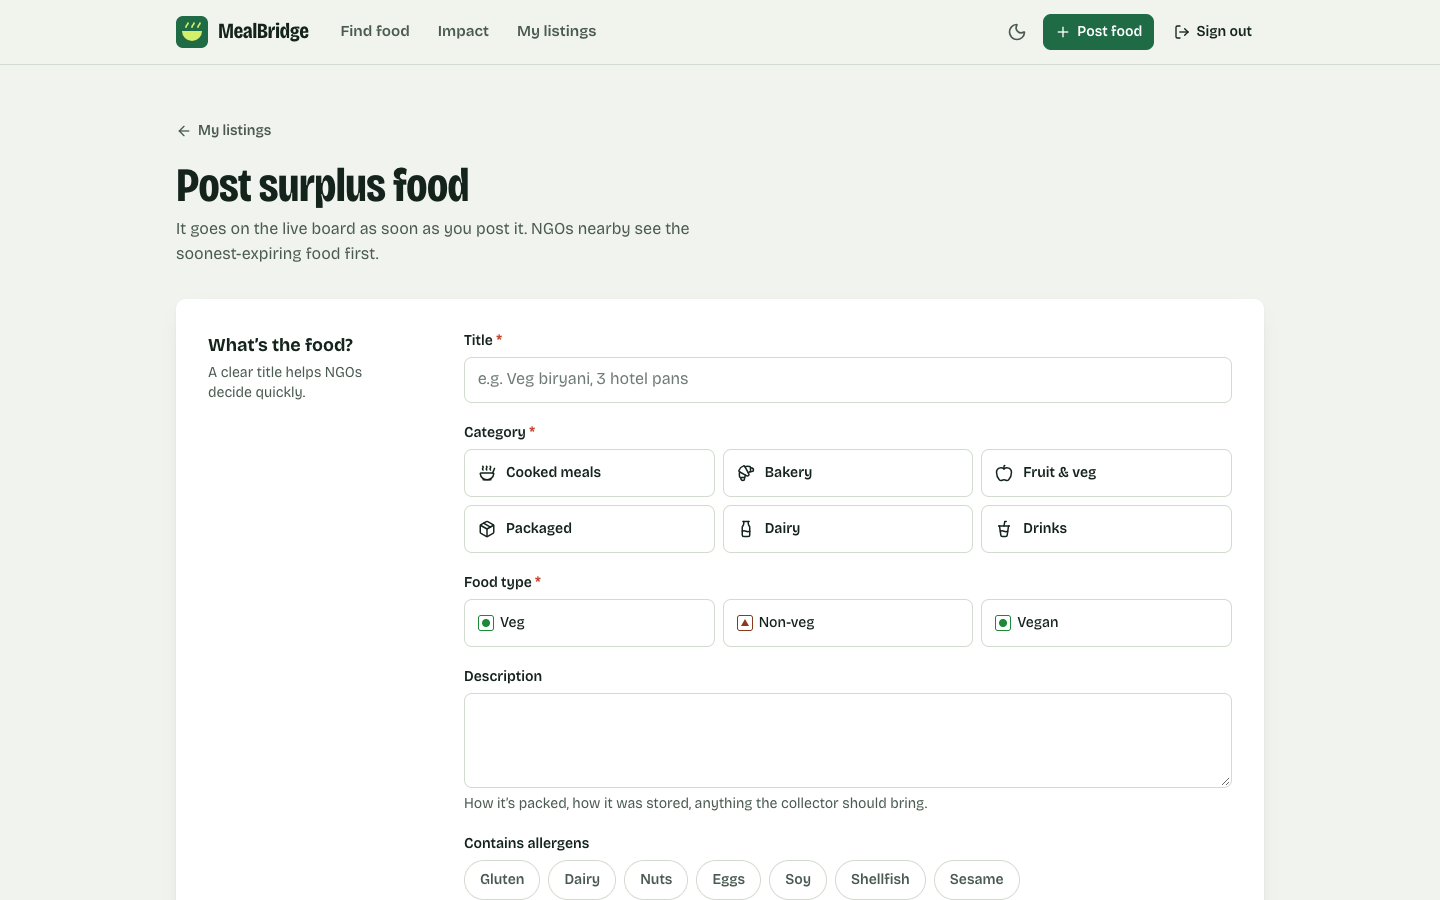
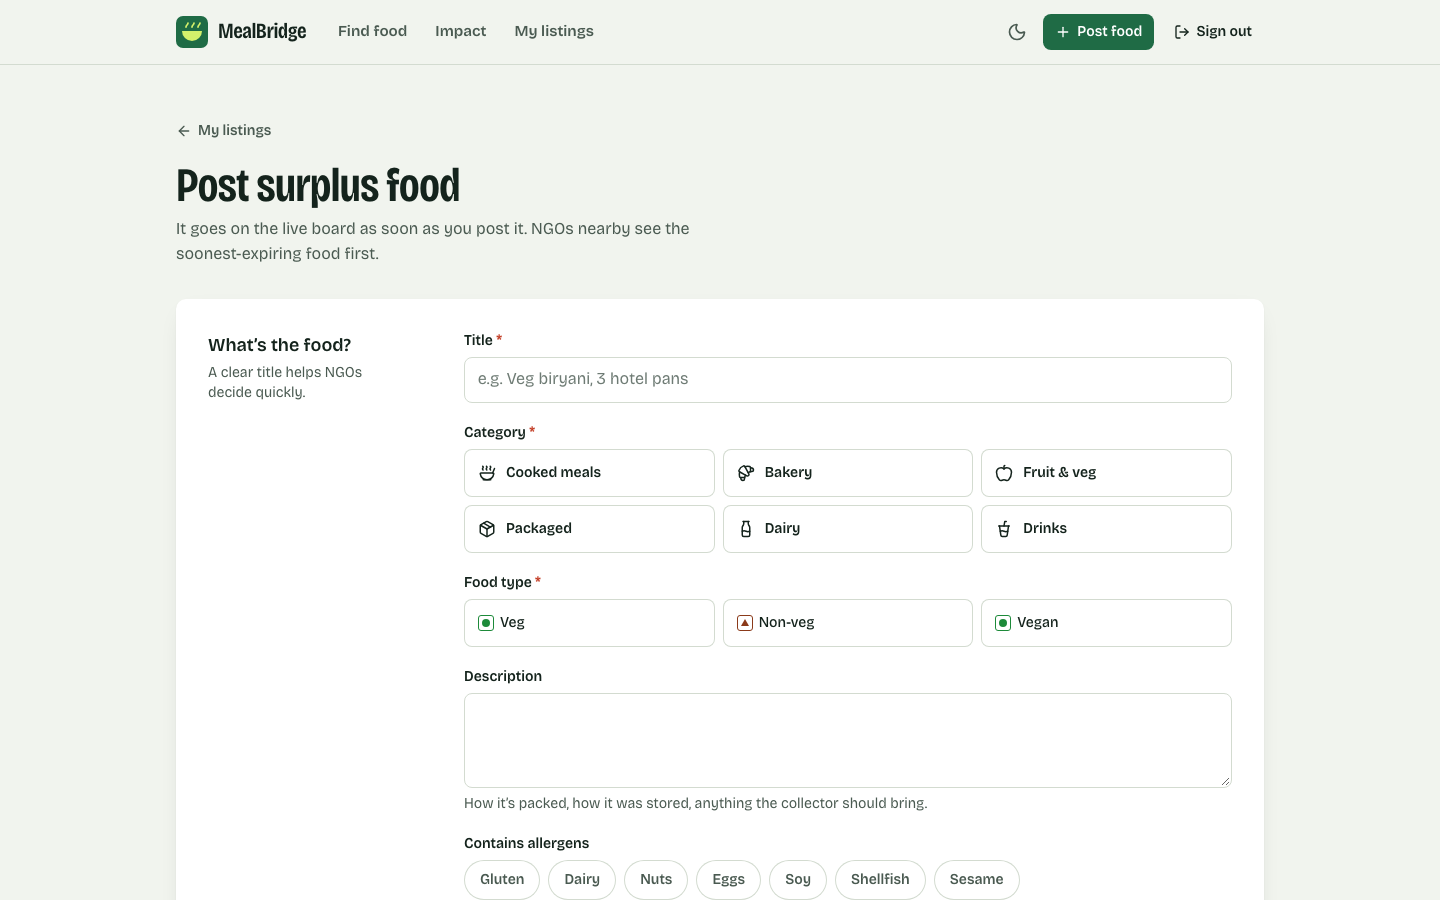
style(ui): drop greeting and sparkles, quieter codes and weights
Dashboard title is the kitchen or NGO name, the Available badge uses a dot, pickup codes are a mono chip, bold text is semibold, the hero headline loses its period, the ticket drop is less bouncy and skeletons are static. Refreshes README screenshots.

Changed region(s): [[0.125, 0.1867, 0.3438, 0.2489], [0.1562, 0.0311, 0.4062, 0.0622], [0.1562, 0.3733, 0.25, 0.4044]]

diff --git a/client/src/pages/Dashboard.jsx b/client/src/pages/Dashboard.jsx
@@ -28,11 +28,6 @@ const TABS = {
   ],
 };
 
-function greeting() {
-  const h = new Date().getHours();
-  return h < 12 ? 'Good morning' : h < 17 ? 'Good afternoon' : 'Good evening';
-}
-
 function ImpactLedger({ role }) {
   const { data, loading } = useAsync(() => api.myStats(), []);
   const items = data
@@ -100,7 +95,7 @@ function Row({ listing, role, now, onAction }) {
       </div>
       <div className="min-w-0 flex-1 space-y-1.5">
         <div className="flex flex-wrap items-center gap-2">
-          <Link to={`/listings/${listing._id}`} className="text-lg font-bold hover:text-leaf">
+          <Link to={`/listings/${listing._id}`} className="text-lg font-semibold hover:text-leaf">
             {listing.title}
           </Link>
           <StatusStamp status={status} />
@@ -118,7 +113,7 @@ function Row({ listing, role, now, onAction }) {
         </p>
         {status === 'claimed' && (
           <div className="flex flex-wrap items-center gap-3 pt-1">
-            <span className="num rounded-md bg-lime px-2 py-0.5 text-sm font-bold tracking-wider text-on-lime">
+            <span className="num rounded-md bg-surface-2 px-2 py-0.5 font-mono text-sm font-medium text-ink ring-1 ring-line">
               {pickupCode(listing._id)}
             </span>
             <ContactLine person={role === 'donor' ? listing.claimedBy : listing.donor} />
@@ -213,11 +208,9 @@ export default function Dashboard() {
     <Container className="py-10 sm:py-14">
       <div className="flex flex-col gap-5 sm:flex-row sm:items-end sm:justify-between">
         <div>
-          <h1 className="display text-4xl sm:text-5xl">
-            {greeting()}, {user.name.split(' ')[0]}
-          </h1>
+          <h1 className="display text-4xl sm:text-5xl">{user.organization || user.name}</h1>
           <p className="mt-2 text-ink-soft">
-            {user.organization ? `${user.organization}${user.city ? `, ${user.city}` : ''}` : 'Your MealBridge account'}
+            {[isDonor ? 'Your listings' : 'Your pickups', user.city].filter(Boolean).join(' · ')}
           </p>
         </div>
         {isDonor ? (
@@ -250,7 +243,7 @@ export default function Dashboard() {
             )}
           >
             {t.label}
-            <span className="num rounded-full bg-surface-2 px-2 text-xs font-bold text-ink-soft">{groups[t.key]?.length ?? 0}</span>
+            <span className="num rounded-full bg-surface-2 px-2 text-xs font-medium text-ink-soft">{groups[t.key]?.length ?? 0}</span>
             {tab === t.key && (
               <motion.span layoutId="dash-tab" className="absolute inset-x-0 -bottom-px h-0.5 bg-leaf" transition={{ type: 'spring', bounce: 0.2, visualDuration: 0.3 }} />
             )}

diff --git a/client/src/pages/Home.jsx b/client/src/pages/Home.jsx
@@ -65,7 +65,7 @@ function PickupBoard() {
               className="relative"
               initial={{ y: -48, opacity: 0, rotate: 0 }}
               animate={{ y: 0, opacity: 1, rotate: hang[i].rotate, x: wide ? hang[i].x : hang[i].x / 3 }}
-              transition={{ type: 'spring', bounce: 0.35, visualDuration: 0.55, delay: 0.15 + i * 0.14 }}
+              transition={{ type: 'spring', bounce: 0.15, visualDuration: 0.55, delay: 0.15 + i * 0.14 }}
               style={{ transformOrigin: '50% 0%' }}
             >
               <span
@@ -113,7 +113,7 @@ function HowItWorks() {
                   <span className="hidden h-0 flex-1 border-t-2 border-dashed border-line sm:block" aria-hidden />
                 )}
               </div>
-              <h3 className="text-xl font-bold">{step.title}</h3>
+              <h3 className="text-xl font-semibold">{step.title}</h3>
               <p className="mt-2 max-w-xs text-ink-soft">{step.body}</p>
             </li>
           ))}
@@ -198,7 +198,7 @@ function Roles() {
           {roles.map((r) => (
             <div key={r.title} className="flex flex-col rounded-2xl border border-line p-7 sm:p-9">
               <r.icon className="size-8 text-leaf" strokeWidth={1.75} aria-hidden />
-              <h3 className="mt-5 text-2xl font-bold">{r.title}</h3>
+              <h3 className="mt-5 text-2xl font-semibold">{r.title}</h3>
               <ul className="mt-5 flex-1 space-y-3">
                 {r.points.map((p) => (
                   <li key={p} className="flex gap-3 text-ink-soft">
@@ -229,7 +229,7 @@ export default function Home() {
         <Container className="grid items-center gap-12 lg:grid-cols-[1fr_1.05fr] lg:gap-16">
           <div>
             <h1 className="display text-[clamp(2.9rem,7.5vw,5.4rem)] leading-[0.95]">
-              Tonight’s leftovers can be someone’s dinner.
+              Tonight’s leftovers can be someone’s dinner
             </h1>
             <p className="mt-6 max-w-lg text-lg text-ink-soft sm:text-xl">
               Restaurants, hostels and caterers post surplus food on MealBridge. NGOs and volunteers nearby claim it and

diff --git a/client/src/pages/ListingDetail.jsx b/client/src/pages/ListingDetail.jsx
@@ -165,7 +165,7 @@ function ActionPanel({ listing, onChange }) {
   return (
     <aside className="ticket p-6 lg:sticky lg:top-24" aria-label="Pickup">
       <div className="mb-4 flex items-center justify-between">
-        <h2 className="text-lg font-bold">Pickup</h2>
+        <h2 className="text-lg font-semibold">Pickup</h2>
         <AnimatePresence mode="popLayout" initial={false}>
           <motion.span
             key={status}
@@ -276,11 +276,11 @@ export default function ListingDetail() {
           <dl className="grid gap-6 p-6 sm:grid-cols-2 sm:p-8">
             <div>
               <dt className="text-sm text-ink-soft">Pickup window</dt>
-              <dd className="num mt-1 text-xl font-bold">{fmtWindow(listing.pickupStart, listing.pickupEnd, new Date(now))}</dd>
+              <dd className="num mt-1 text-xl font-semibold">{fmtWindow(listing.pickupStart, listing.pickupEnd, new Date(now))}</dd>
             </div>
             <div>
               <dt className="text-sm text-ink-soft">Best before</dt>
-              <dd className="num mt-1 text-xl font-bold">
+              <dd className="num mt-1 text-xl font-semibold">
                 {fmtDay(listing.expiresAt, new Date(now))}, {fmtTime(listing.expiresAt)}
               </dd>
               {live && (
@@ -292,13 +292,13 @@ export default function ListingDetail() {
             </div>
             <div>
               <dt className="text-sm text-ink-soft">Quantity</dt>
-              <dd className="num mt-1 text-xl font-bold">
+              <dd className="num mt-1 text-xl font-semibold">
                 {fmtNumber(listing.quantity)} {UNITS[listing.unit]}
               </dd>
             </div>
             <div>
               <dt className="text-sm text-ink-soft">Feeds about</dt>
-              <dd className="num mt-1 text-xl font-bold">{fmtNumber(listing.estServings)} people</dd>
+              <dd className="num mt-1 text-xl font-semibold">{fmtNumber(listing.estServings)} people</dd>
             </div>
             <div className="sm:col-span-2">
               <dt className="text-sm text-ink-soft">Pickup address</dt>

diff --git a/client/src/components/Ticket.jsx b/client/src/components/Ticket.jsx
@@ -31,7 +31,7 @@ export const Ticket = forwardRef(function Ticket({ listing, now, className, head
           <StatusStamp status={listing.status} />
         </div>
 
-        <H className="text-xl leading-snug font-bold">
+        <H className="text-xl leading-snug font-semibold">
           <Link
             to={`/listings/${listing._id}`}
             className="after:absolute after:inset-0 after:rounded-[10px] after:content-[''] group-hover:text-leaf focus-visible:outline-none group-has-[a:focus-visible]:after:outline-3 group-has-[a:focus-visible]:after:outline-leaf"
@@ -68,7 +68,7 @@ export const Ticket = forwardRef(function Ticket({ listing, now, className, head
       <div className="grid grid-cols-[1fr_auto] gap-x-4 gap-y-2 p-5 pt-4">
         <div>
           <p className="text-xs font-medium text-ink-soft">Pickup {fmtDayInline(listing.pickupStart, new Date(now))}</p>
-          <p className="num text-lg font-bold">
+          <p className="num text-lg font-semibold">
             {fmtTime(listing.pickupStart)} – {fmtTime(listing.pickupEnd)}
           </p>
         </div>
@@ -76,7 +76,7 @@ export const Ticket = forwardRef(function Ticket({ listing, now, className, head
           <p className="text-xs font-medium text-ink-soft">
             {fmtNumber(listing.quantity)} {UNITS[listing.unit]}
           </p>
-          <p className="num text-lg font-bold">Feeds {fmtNumber(listing.estServings)}</p>
+          <p className="num text-lg font-semibold">Feeds {fmtNumber(listing.estServings)}</p>
         </div>
         {live && (
           <p className={clsx('col-span-2 flex items-center gap-1.5 text-sm font-semibold', urgencyTone[fresh.urgency])}>

diff --git a/client/src/components/StatusStamp.jsx b/client/src/components/StatusStamp.jsx
@@ -1,5 +1,5 @@
 import clsx from 'clsx';
-import { CircleCheck, Clock, Hourglass, Ban, Sparkles } from 'lucide-react';
+import { CircleCheck, CircleDot, Clock, Hourglass, Ban } from 'lucide-react';
 import { STATUS } from '../lib/constants';
 
 const tones = {
@@ -9,20 +9,20 @@ const tones = {
   muted: 'bg-surface-2 text-ink-soft',
 };
 
-const icons = { available: Sparkles, claimed: Clock, completed: CircleCheck, expired: Hourglass, cancelled: Ban };
+const icons = { available: CircleDot, claimed: Clock, completed: CircleCheck, expired: Hourglass, cancelled: Ban };
 
 export function StatusStamp({ status, className }) {
   const meta = STATUS[status] ?? STATUS.available;
-  const Icon = icons[status] ?? Sparkles;
+  const Icon = icons[status] ?? CircleDot;
   return (
     <span
       className={clsx(
-        'inline-flex items-center gap-1 rounded-full px-2.5 py-1 text-xs font-bold whitespace-nowrap',
+        'inline-flex items-center gap-1 rounded-full px-2.5 py-1 text-xs font-medium whitespace-nowrap',
         tones[meta.tone],
         className,
       )}
     >
-      <Icon className="size-3.5" aria-hidden strokeWidth={2.5} />
+      <Icon className="size-3.5" aria-hidden strokeWidth={2} />
       {meta.label}
     </span>
   );

diff --git a/client/src/pages/AuthPage.jsx b/client/src/pages/AuthPage.jsx
@@ -159,7 +159,7 @@ export default function AuthPage({ mode }) {
                     />
                     <r.icon className="mt-0.5 size-6 shrink-0" aria-hidden />
                     <span>
-                      <span className="block font-bold">{r.title}</span>
+                      <span className="block font-semibold">{r.title}</span>
                       <span className={clsx('block text-sm', values.role === r.value ? 'text-on-lime/80' : 'text-ink-soft')}>{r.body}</span>
                     </span>
                   </label>
@@ -209,7 +209,7 @@ export default function AuthPage({ mode }) {
       </div>
 
       <aside className="ticket self-start p-6" aria-labelledby="demo-heading">
-        <h2 id="demo-heading" className="text-lg font-bold">
+        <h2 id="demo-heading" className="text-lg font-semibold">
           Just looking around?
         </h2>
         <p className="mt-1 text-sm text-ink-soft">Use a demo account with sample data. Both use the password demo1234.</p>

diff --git a/client/src/pages/Impact.jsx b/client/src/pages/Impact.jsx
@@ -42,7 +42,7 @@ function ChartTooltip({ active, payload, label, labelFormatter }) {
 function ChartCard({ title, caption, children, table }) {
   return (
     <figure className="ticket p-5 sm:p-7">
-      <h2 className="text-xl font-bold">{title}</h2>
+      <h2 className="text-xl font-semibold">{title}</h2>
       <p className="mt-1 text-sm text-ink-soft">{caption}</p>
       <div className="mt-6">{children}</div>
       <details className="mt-4 text-sm">
@@ -189,7 +189,7 @@ export default function Impact() {
       </div>
 
       <section className="mt-12 max-w-2xl" aria-labelledby="method">
-        <h2 id="method" className="text-xl font-bold">
+        <h2 id="method" className="text-xl font-semibold">
           How these numbers are worked out
         </h2>
         <p className="mt-2 text-ink-soft">

diff --git a/client/src/index.css b/client/src/index.css
@@ -161,7 +161,7 @@
 
   .display {
     font-variation-settings: 'wdth' 78;
-    font-weight: 700;
+    font-weight: 600;
   }
 
   /* Pickup ticket: a card with a perforated tear line and side notches. */
@@ -222,23 +222,12 @@
   }
 
   .skeleton {
-    background: linear-gradient(90deg, var(--surface-2) 25%, color-mix(in oklab, var(--surface-2) 60%, var(--surface)) 50%, var(--surface-2) 75%);
-    background-size: 200% 100%;
-    animation: shimmer 1.4s linear infinite;
+    background: var(--surface-2);
     border-radius: 6px;
   }
 }
 
-@keyframes shimmer {
-  to {
-    background-position: -200% 0;
-  }
-}
-
 @media (prefers-reduced-motion: reduce) {
-  .skeleton {
-    animation: none;
-  }
   *,
   *::before,
   *::after {

diff --git a/client/src/pages/NotFound.jsx b/client/src/pages/NotFound.jsx
@@ -7,7 +7,7 @@ export default function NotFound() {
     <Container className="py-20 sm:py-28">
       <div className="ticket mx-auto max-w-md p-8 text-center">
         <p className="display num text-7xl text-leaf">404</p>
-        <h1 className="mt-4 text-2xl font-bold">This page isn’t on the menu</h1>
+        <h1 className="mt-4 text-2xl font-semibold">This page isn’t on the menu</h1>
         <p className="mt-2 text-ink-soft">The link may be old, or the listing may have been removed.</p>
         <div className="mt-6 flex flex-col justify-center gap-2 sm:flex-row">
           <Button to="/browse">Browse open listings</Button>

diff --git a/client/src/components/ui.jsx b/client/src/components/ui.jsx
@@ -78,7 +78,7 @@ export function EmptyState({ icon: Icon, title, children, action }) {
   return (
     <div className="flex flex-col items-center rounded-xl border-2 border-dashed border-line px-6 py-14 text-center">
       {Icon && <Icon className="mb-4 size-10 text-ink-soft" strokeWidth={1.5} aria-hidden />}
-      <h3 className="text-xl font-bold">{title}</h3>
+      <h3 className="text-xl font-semibold">{title}</h3>
       {children && <p className="mt-2 max-w-md text-ink-soft">{children}</p>}
       {action && <div className="mt-6">{action}</div>}
     </div>

diff --git a/client/src/pages/ListingEditor.jsx b/client/src/pages/ListingEditor.jsx
@@ -100,7 +100,7 @@ function Section({ title, hint, children }) {
   return (
     <fieldset className="grid gap-x-8 gap-y-5 border-t border-line py-8 first:border-t-0 first:pt-0 md:grid-cols-[14rem_1fr]">
       <div>
-        <legend className="text-lg font-bold">{title}</legend>
+        <legend className="text-lg font-semibold">{title}</legend>
         {hint && <p className="mt-1 text-sm text-ink-soft">{hint}</p>}
       </div>
       <div className="grid gap-5">{children}</div>

diff --git a/client/src/components/Modal.jsx b/client/src/components/Modal.jsx
@@ -68,7 +68,7 @@ export function Modal({ open, onClose, title, children, footer }) {
             transition={{ type: 'spring', bounce: 0.15, visualDuration: 0.3 }}
           >
             <div className="mb-3 flex items-start justify-between gap-4">
-              <h2 id={titleId} className="text-xl font-bold">
+              <h2 id={titleId} className="text-xl font-semibold">
                 {title}
               </h2>
               <button
